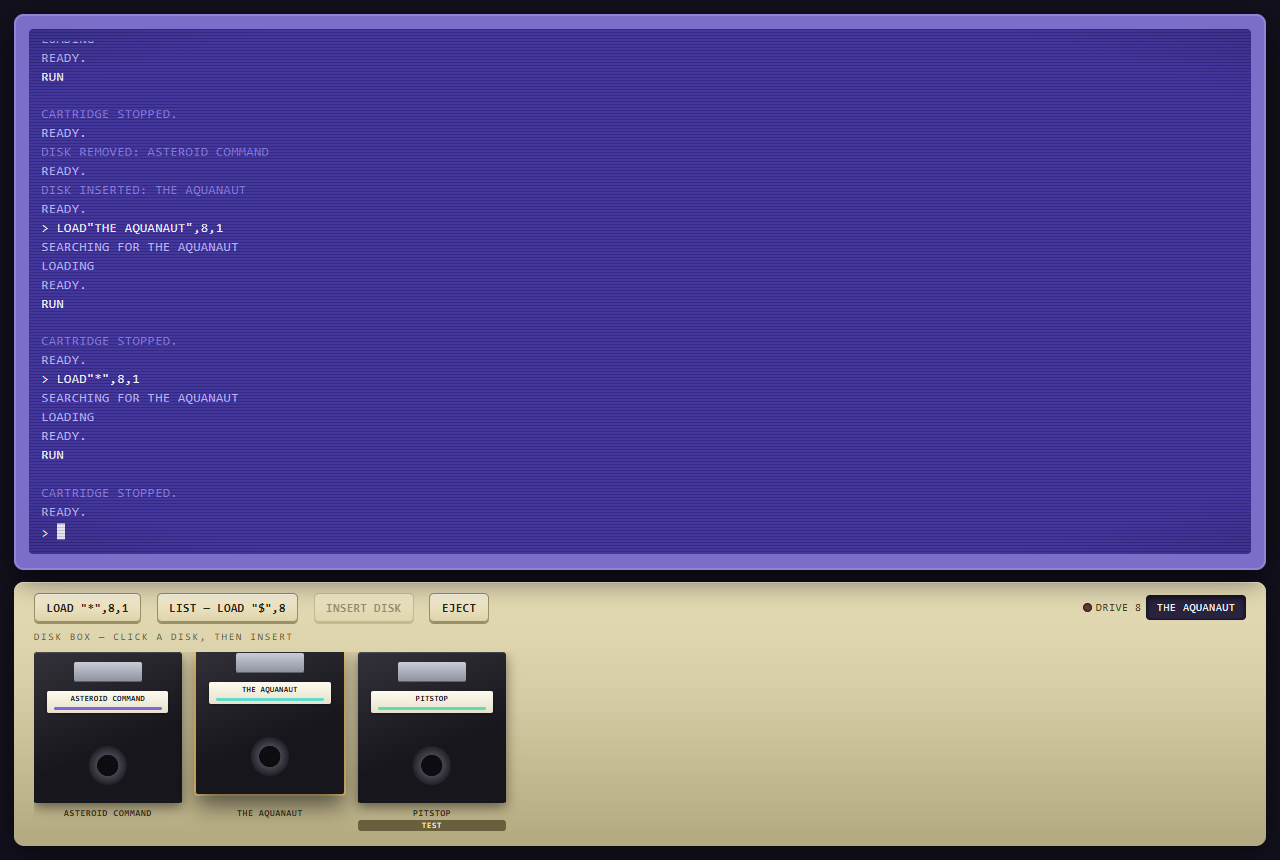
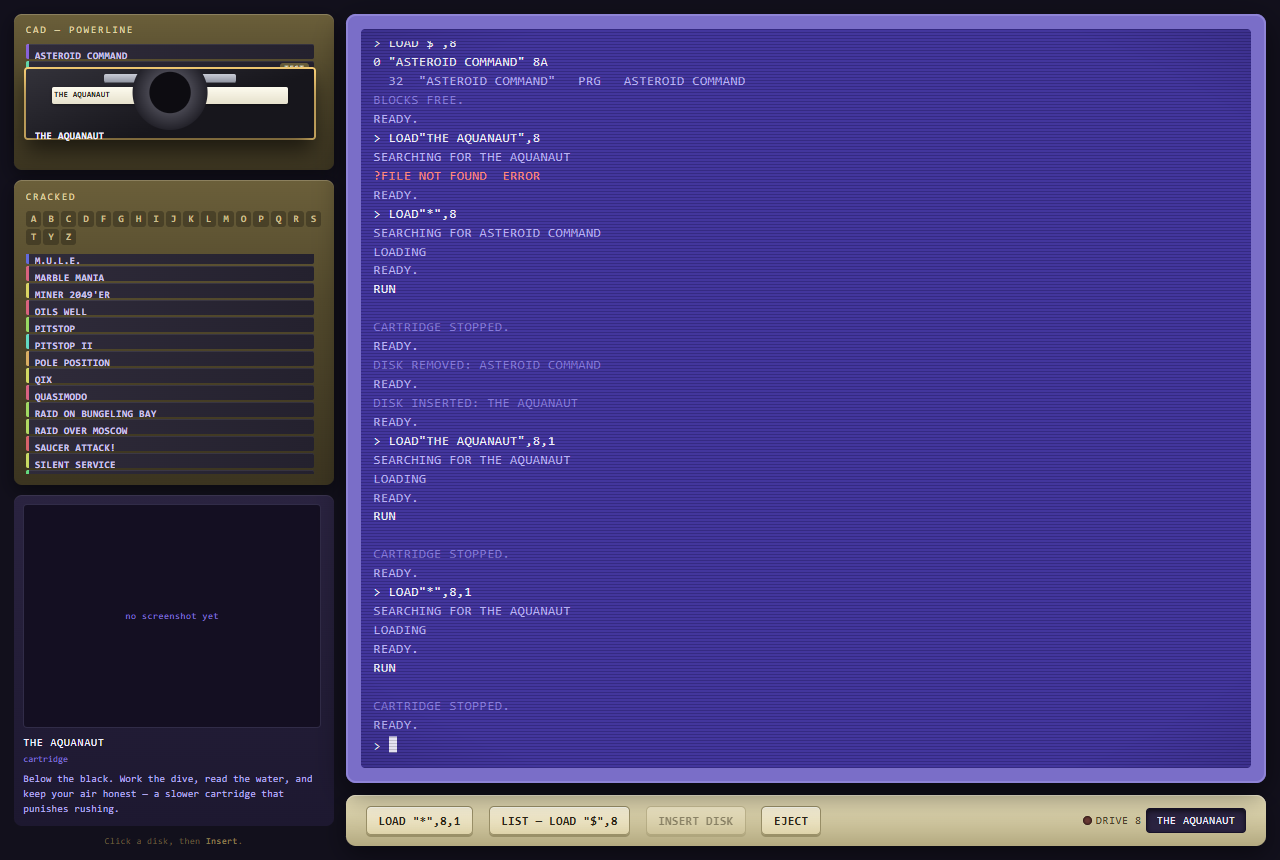
The Cracked crate says "Fang Rock only" instead of looking broken
His ruling: Cracked disks are Fang Rock-only, permanently, by design. Everywhere
the disk list cannot be read - file://, Pages, a dev server whose listing fails -
the crate used to sit there EMPTY with one dim terminal line to explain it, and
it read as broken rather than as elsewhere.

Now the crate stays on screen, visibly switched off: greyed, hatched wood and a
placard reading AVAILABLE IN FANG ROCK ONLY - "This crate fills when the arcade
is opened from Fang Rock." The dim terminal line still prints; it is flavour now,
not the only signal. A dev server that CAN list is untouched (55 records, no
placard), and so is the `empty` state, which is a different thing.

INSIDE FANG ROCK THE SAME FAILURE IS A FAULT. His answer when asked: "Say it's a
fault." The shell can fail the scan too (the room's listable flag off, a wrong
rootPath), and telling him to go where he already is would be the wrong message.
So there the placard is red with a "!" - FAULT: DISK FOLDER UNREADABLE - and the
terminal line goes red with the reason.

  TOLD APART BY ORIGIN: the shell serves the room on its own privileged scheme,
  SERVED_SCHEME = "arcade", registered standard:true. MEASURED, NOT ASSUMED:
  the hub was loaded under the shell's own Electron (32.3.3) on an arcade://
  origin mirroring that registration and handler. location.protocol reads
  "arcade:"; with listable off the crate shows the fault, with it on it shows
[…]

diff --git a/Game/cat/cat.js b/Game/cat/cat.js
@@ -62,6 +62,8 @@
   var stackPlc  = document.querySelector("#crate-plc .crate__stack");
   var stackLib  = document.querySelector("#crate-lib .crate__stack");
   var tabsLib   = document.querySelector("#crate-lib .crate__tabs");
+  var crateLib  = document.getElementById("crate-lib");
+  var noteLib   = document.getElementById("crate-lib-notice");
   var dShot     = document.getElementById("detail-shot");
   var dTitle    = document.getElementById("detail-title");
   var dMeta     = document.getElementById("detail-meta");
@@ -756,9 +758,48 @@
      fresh clone has none, and the hub says so as information rather than as
      a fault.
      ===================================================================== */
+  /* 🆕 2026-09-12 — THE CRACKED CRATE WHEN THE LIST CANNOT BE READ.
+     His ruling: Cracked disks are Fang Rock-only, permanently and by design.
+     Everywhere else — file://, Pages, a dev server whose listing fails — the
+     scan comes back `unlistable`, and the crate used to sit there EMPTY with one
+     dim terminal line to explain it. That read as broken rather than as
+     elsewhere. So the crate stays on screen, visibly switched off, and says so.
+
+     🚨 INSIDE FANG ROCK THE SAME RESULT IS A FAULT, NOT "FANG ROCK ONLY". His
+     answer when asked: "Say it's a fault." The shell can fail the scan too (the
+     room's `listable` flag off, a wrong rootPath), and telling him to go where
+     he already is would be the wrong message at the worst possible moment.
+     ⭐ The two are told apart by ORIGIN: the shell serves this room on its own
+     privileged scheme — Morbius/shell/main.js, `SERVED_SCHEME = "arcade"`,
+     registered `standard: true` — and nothing else ever puts the hub there.
+     📌 Measured 2026-09-12 under the shell's own Electron (32.3.3), not assumed:
+     `location.protocol` reads "arcade:" on that origin. If the shell ever renames
+     its scheme, this constant is the one line that has to follow it.
+
+     🚫 Only the FAILED scan is touched. A dev server that can list stays exactly
+     as it is, and `empty` (the folder answered and held nothing) is a different
+     state with its own line. */
+  var SHELL_PROTOCOL = "arcade:";
+
+  function renderLibraryState(res) {
+    var off   = !!res && res.state === "unlistable";
+    var fault = off && location.protocol === SHELL_PROTOCOL;
+    crateLib.classList.toggle("is-unavailable", off);
+    crateLib.classList.toggle("is-fault", fault);
+    noteLib.hidden = !off;
+    if (!off) return;
+    noteLib.querySelector(".crate__notice-title").textContent = fault
+      ? "Fault: disk folder unreadable"
+      : "Available in Fang Rock only";
+    noteLib.querySelector(".crate__notice-body").textContent = fault
+      ? "Fang Rock could not read the game/disks/ folder (" + String(res.detail || "no reason given") + ")."
+      : "This crate fills when the arcade is opened from Fang Rock.";
+  }
+
   function loadLibrary() {
     if (!window.CAT_LIBRARY) return Promise.resolve(null);
     return window.CAT_LIBRARY.scan().then(function (res) {
+      renderLibraryState(res);
       if (res.state === "present") {
         /* Sorted as one list. A cartridge and a disk are peers here. */
         DISKS = res.disks.concat(DISKS).sort(function (a, b) {
@@ -780,11 +821,19 @@
       } else if (res.state === "empty") {
         blank();
         write("disk library: empty. drop .d64 files into game/disks/.", "dim");
+      } else if (location.protocol === SHELL_PROTOCOL) {
+        /* inside the shell this is the fault the crate now names, so the
+           terminal names it too — "not readable from this origin" would be
+           blaming the one origin that is supposed to work. */
+        blank();
+        write("disk library: fault. the disk folder could not be read.", "err");
+        write("(" + String(res.detail || "no reason given") + ")", "dim");
       } else {
         /* 🚨 NOT phrased as an error, and NOT the same line as "empty". This
            origin cannot list a directory — the ordinary state on file:// and
            on a fresh clone served from Pages. Saying "no disks found" here
-           would send someone looking for files that are sitting right there. */
+           would send someone looking for files that are sitting right there.
+           ⚠ No longer the only signal: the Cracked crate says it too (above). */
         blank();
         write("disk library: not readable from this origin.", "dim");
         write("(cartridges are unaffected. see game/disks/readme.md)", "dim");

diff --git a/Game/cat/cat.css b/Game/cat/cat.css
@@ -585,6 +585,81 @@ html, body {
   .crate__pile .disk:hover { transform: none; }
 }
 
+/* ---- the Cracked crate, switched off ------------------------------------
+   🆕 2026-09-12. Where the disk list cannot be read — everywhere outside Fang
+   Rock, by his ruling — the crate stays PRESENT and reads as deliberately
+   closed: greyed wood, taped-off hatching, and a placard saying where the disks
+   are. An empty crate with nothing in it read as a bug.
+   ⚠ The dim terminal line still prints; it is flavour now, not the signal.
+   🚨 `[hidden]` HAS TO BE RESTATED. `.crate__notice` is `display: flex`, and an
+   author `display` beats the browser's own `[hidden] { display: none }` — the
+   placard would show on every origin, including the ones that CAN list. */
+.crate.is-unavailable {
+  background:
+    repeating-linear-gradient(-45deg, rgba(0, 0, 0, .17) 0 7px, transparent 7px 14px),
+    linear-gradient(#58543f, #46422f 40%, #34311f);
+  box-shadow: 0 6px 18px rgba(0, 0, 0, .45), inset 0 1px 0 rgba(255, 248, 221, .10);
+}
+.crate.is-unavailable .crate__label { color: #a8a07f; }
+/* nothing to jump to and nothing to scroll: the placard takes the room */
+.crate.is-unavailable .crate__tabs,
+.crate.is-unavailable .crate__stack { display: none; }
+
+.crate__notice {
+  flex: 1 1 auto;
+  min-height: 0;
+  display: flex;
+  flex-direction: column;
+  align-items: center;
+  justify-content: center;
+  gap: 7px;
+  padding: 14px 12px;
+  text-align: center;
+  border: 1px dashed rgba(226, 215, 168, .42);
+  border-radius: 5px;
+  background: rgba(18, 16, 28, .55);
+}
+.crate__notice[hidden] { display: none; }
+/* the "not here" sign, drawn rather than fetched: a ring with a bar through it */
+.crate__notice::before {
+  content: "";
+  width: 22px;
+  height: 22px;
+  border: 2px solid #c9bf94;
+  border-radius: 50%;
+  background: linear-gradient(-45deg, transparent calc(50% - 1px), #c9bf94 calc(50% - 1px) calc(50% + 1px), transparent calc(50% + 1px));
+}
+.crate__notice-title {
+  font-size: clamp(10px, 1.3vh, 13px);
+  font-weight: 700;
+  letter-spacing: .12em;
+  text-transform: uppercase;
+  color: #efe5b8;
+}
+.crate__notice-body {
+  max-width: 36ch;
+  font-size: clamp(9px, 1.1vh, 11px);
+  line-height: 1.45;
+  color: #cdc39b;
+}
+
+/* Inside Fang Rock the same failure is a FAULT, and looks like one: the hub's
+   own error red, and a "!" where the not-here sign was. */
+.crate.is-fault .crate__notice {
+  border-color: rgba(255, 138, 122, .6);
+  background: rgba(40, 8, 12, .55);
+}
+.crate.is-fault .crate__notice::before {
+  content: "!";
+  display: grid;
+  place-items: center;
+  font: 700 14px/1 var(--mono);
+  color: var(--cat-err);
+  border-color: var(--cat-err);
+  background: none;
+}
+.crate.is-fault .crate__notice-title { color: var(--cat-err); }
+
 /* ---- the detail panel ---------------------------------------------------
    🚨 ITS HONEST STATE IS THE COMMON ONE. 55 of 59 disks have no screenshot and
    no synopsis (see games.js), so "nothing yet" is what this mostly renders and

diff --git a/Game/cat/index.html b/Game/cat/index.html
@@ -106,6 +106,16 @@
     <!-- populated by cat.js: only letters that actually have a disk -->
     <div class="crate__tabs" role="group" aria-label="Jump to letter"></div>
     <div class="crate__stack" role="group" aria-labelledby="crate-lib-label"></div>
+    <!-- 🆕 2026-09-12 — SHOWN ONLY WHEN THE DISK LIST COULD NOT BE READ.
+         Cracked disks are Fang Rock-only by design (his ruling), so on file://,
+         on Pages, or anywhere else the scan fails, the crate stays on screen,
+         switched off, and says so. Before this it sat there empty with one dim
+         terminal line to explain it, and read as broken. Inside the shell the
+         same failure is a fault and says that instead. Worded by cat.js. -->
+    <div class="crate__notice" id="crate-lib-notice" hidden>
+      <span class="crate__notice-title"></span>
+      <span class="crate__notice-body"></span>
+    </div>
   </div>
 
   <!-- ---- the detail panel ---------------------------------------------
